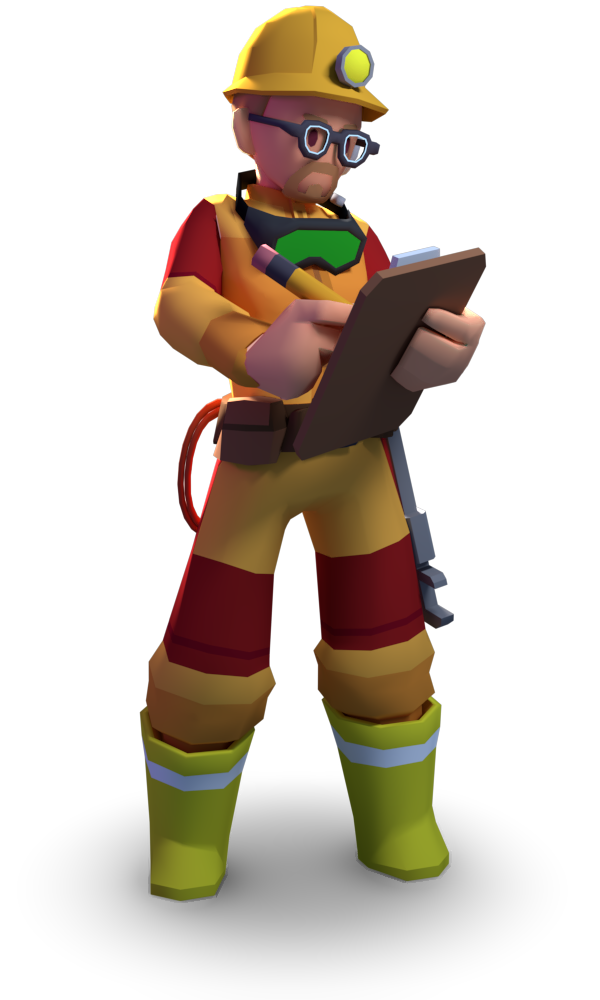
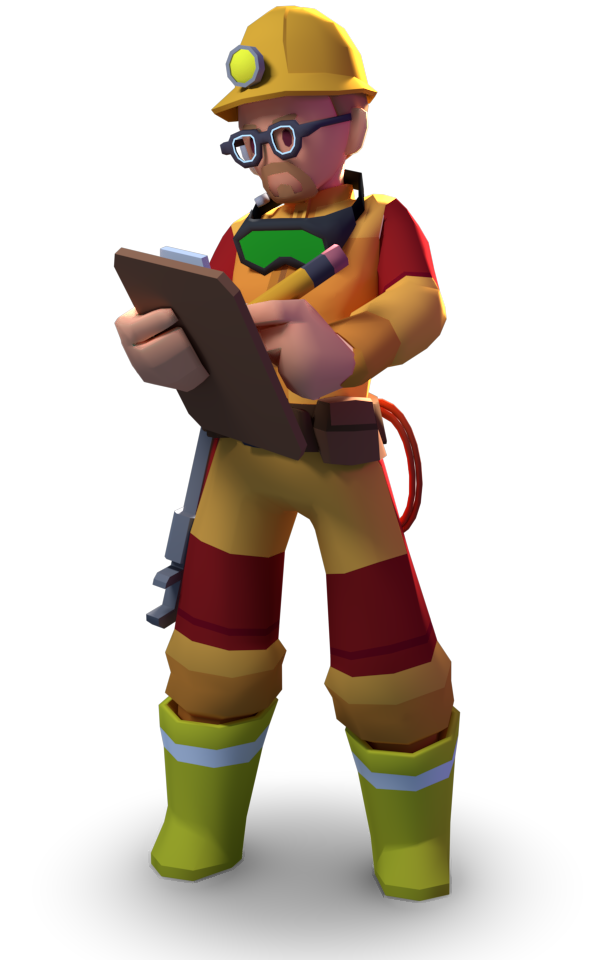
Flip a few artwork cutouts (#152)

diff --git a/README.md b/README.md
@@ -24,4 +24,4 @@ More art tasks will be moved to GitHub as we progress forward, thanks for being 
 
 ## LICENSE
 
-ALL asset files fall under **[CC BY-NC-SA 4.0](Documents/LICENSE-ASSETS.md)**
+ALL asset & artwork files fall under **[CC BY-NC-SA 4.0](Documents/LICENSE-ASSETS.md)**
